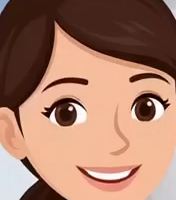
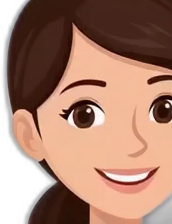
Remove Lily's frame and fix the distorted crop
The previous nurse avatar had two problems: it was boxed in a rounded
card (because the source video still had a hard rectangular background),
and object-fit: cover was zooming/warping her face when scaled into
different aspect ratios.

Fixed at the source: matted the nurse out of the video frame with an AI
background remover (rembg/u2net), isolated her from the scan device art
she was standing next to, and re-cropped to two clean transparent PNGs:
- lily-portrait.png: head-to-chest cut-out for the hero, shown with
  object-fit: contain (no crop, no distortion) on a soft radial glow
  instead of a boxed card.
- lily-face.png: head-and-shoulders cut-out for the circular avatars
  (coach, floating assistant, chat header), object-fit: cover with a
  top-aligned position so the whole face fits the circle undistorted.

Claude-Session: https://claude.ai/code/session_01AF84Au6HR6TsnYe1KMycWB

diff --git a/public/css/styles.css b/public/css/styles.css
@@ -546,17 +546,20 @@ h1, h2, h3, h4 { font-family: 'Playfair Display', Georgia, serif; letter-spacing
 /* =====================================================================
    Lily avatar images (real illustrated nurse from the promo)
    ===================================================================== */
-.lily-img { width: 100%; height: 100%; object-fit: cover; object-position: 50% 18%; display: block; }
+/* Circular avatars: transparent head-shoulders cut-out, scaled — never warped */
+.lily-img { width: 100%; height: 100%; object-fit: cover; object-position: 50% 14%; display: block; }
 .nurse-avatar, .assistant-avatar { overflow: hidden; }
 .assistant-face { width: 100%; height: 100%; display: block; }
 .chat-title .lily-badge { width: 34px; height: 34px; border-radius: 11px; overflow: hidden; display: inline-grid; place-items: center;
-    vertical-align: middle; margin-inline-end: .1rem; box-shadow: 0 6px 16px rgba(91,147,179,.3); }
-/* Hero: present Lily as a rounded portrait card (like the promo framing) */
-.nurse-card { position: relative; z-index: 2; width: min(300px, 78vw); aspect-ratio: 0.82; border-radius: 30px; overflow: hidden;
-    border: 6px solid var(--pearl); box-shadow: 0 26px 60px rgba(91,147,179,.32); background: linear-gradient(160deg, #dbe7f2, #eef4f9);
-    animation: float 6s ease-in-out infinite; }
-.nurse-card img { width: 100%; height: 100%; object-fit: cover; object-position: 50% 8%; display: block; }
+    vertical-align: middle; margin-inline-end: .1rem; background: linear-gradient(160deg, #dbe7f2, #eef4f9); box-shadow: 0 6px 16px rgba(91,147,179,.3); }
 .coach-avatar img { width: 100%; height: 100%; object-fit: cover; object-position: 50% 12%; display: block; }
+/* Hero: Lily as a clean cut-out figure (no frame), on a soft glow */
+.nurse-figure { position: relative; z-index: 2; width: min(330px, 82vw); aspect-ratio: 170 / 537; display: grid; place-items: end center;
+    animation: float 6s ease-in-out infinite; }
+.nurse-figure::before { content: ""; position: absolute; z-index: -1; left: 50%; top: 46%; transform: translate(-50%, -50%);
+    width: 108%; height: 82%; border-radius: 999px; filter: blur(4px);
+    background: radial-gradient(circle at 50% 42%, rgba(255,255,255,.9), transparent 44%), radial-gradient(circle at 50% 55%, rgba(143,185,201,.5), rgba(233,183,167,.34) 60%, transparent 72%); }
+.nurse-figure img { width: 100%; height: 100%; object-fit: contain; display: block; filter: drop-shadow(0 18px 30px rgba(91,147,179,.28)); }
 
 /* =====================================================================
    Clinical face-scan processing animation (real scan-device art)

diff --git a/public/index.html b/public/index.html
@@ -34,7 +34,7 @@
                 <!-- Illustrated AI nurse "Lily" portrait -->
                 <div class="nurse">
                     <div class="nurse-orbit" aria-hidden="true"></div>
-                    <div class="nurse-card"><img src="/img/lily-portrait.png" alt="Lily, your AI skincare nurse"></div>
+                    <div class="nurse-figure"><img src="/img/lily-portrait.png" alt="Lily, your AI skincare nurse"></div>
                     <div class="nurse-bubble">
                         <div class="nurse-bubble-title" data-i18n="meet_lily">Hi, I'm Lily 👋</div>
                         <div class="nurse-bubble-text" data-i18n="lily_intro">Your AI skincare nurse.</div>
